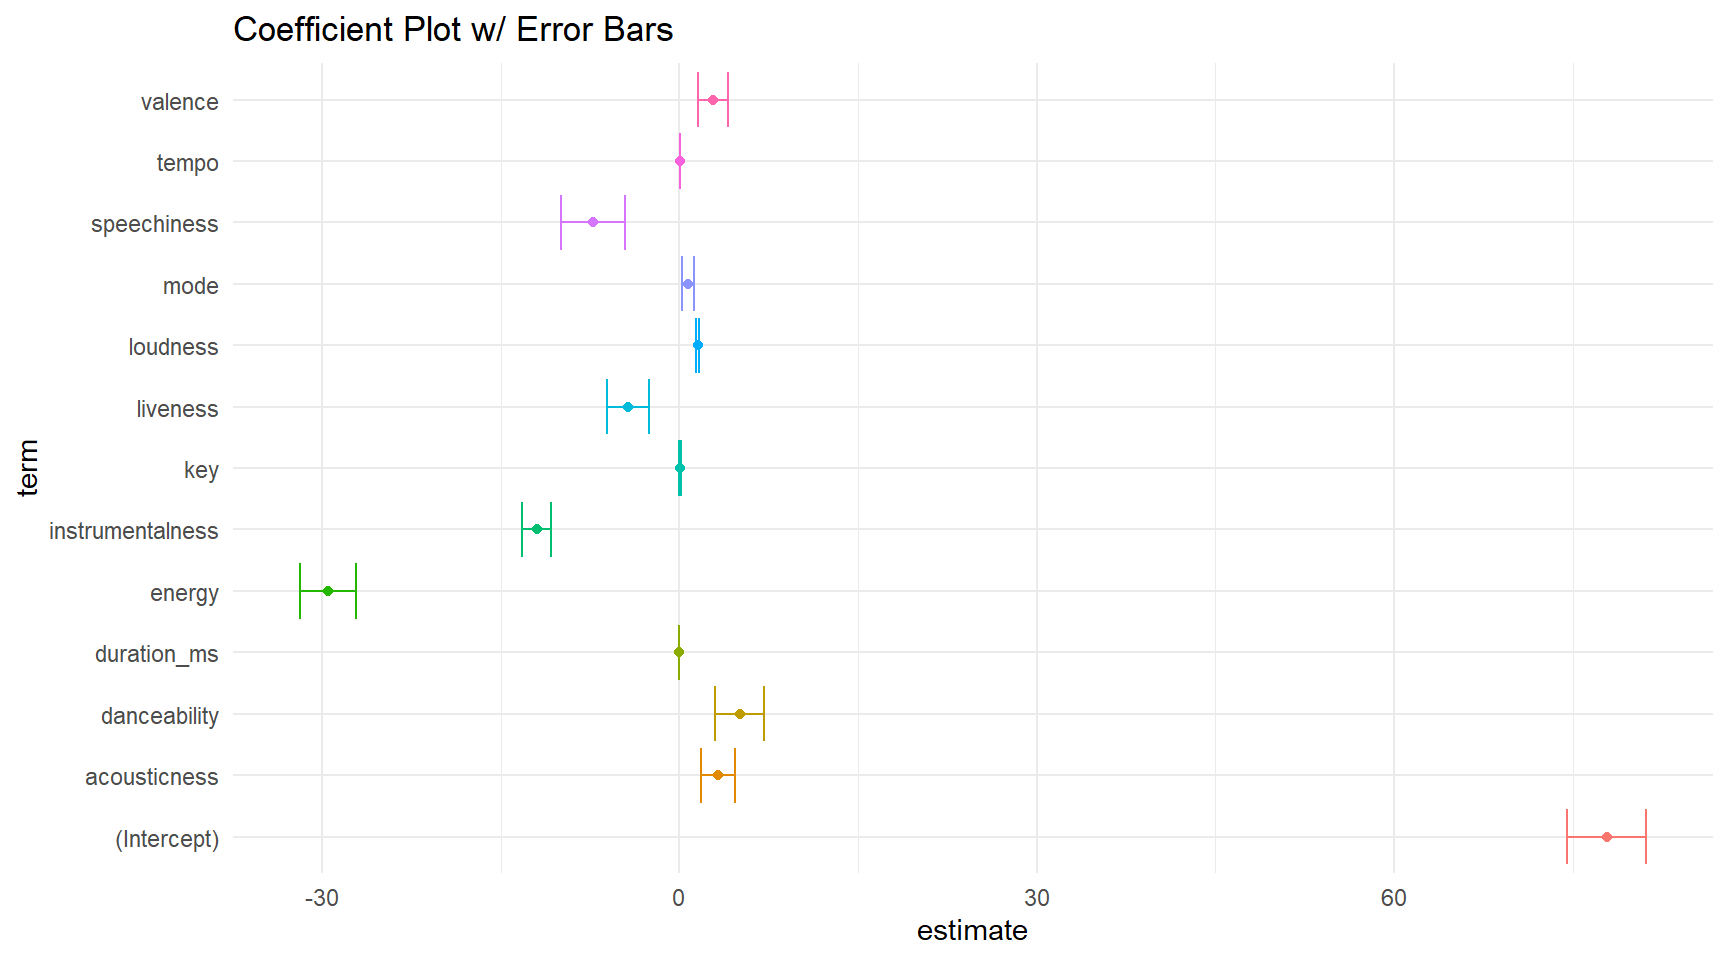
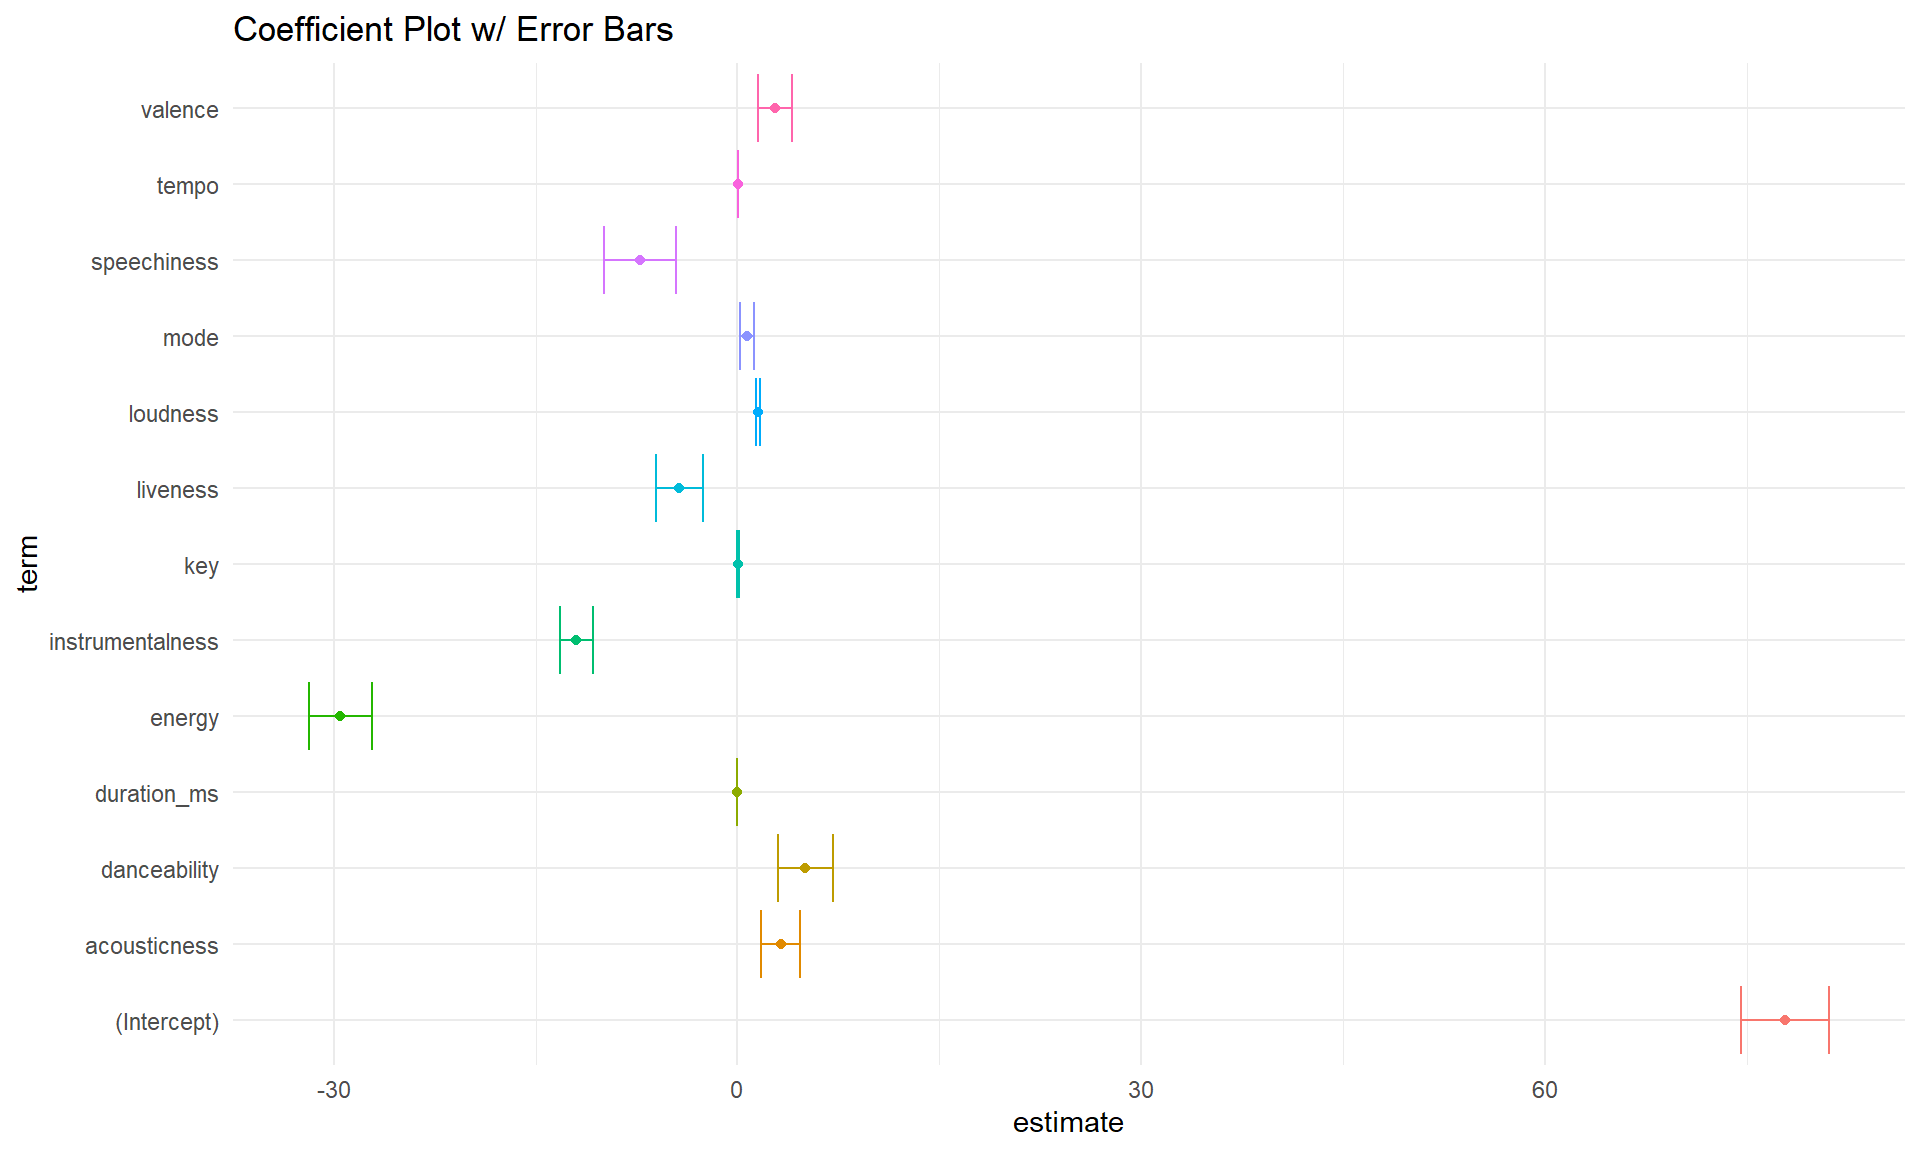
das

diff --git a/content/post/spotify/index.html b/content/post/spotify/index.html
@@ -276,5 +276,5 @@ p.value
 </tr>
 </tbody>
 </table>
-<p><img src="/post/spotify/index_files/figure-html/unnamed-chunk-6-1.png" width="864" /></p>
+<p><img src="/post/spotify/index_files/figure-html/unnamed-chunk-6-1.png" width="960" /></p>
 </div>
